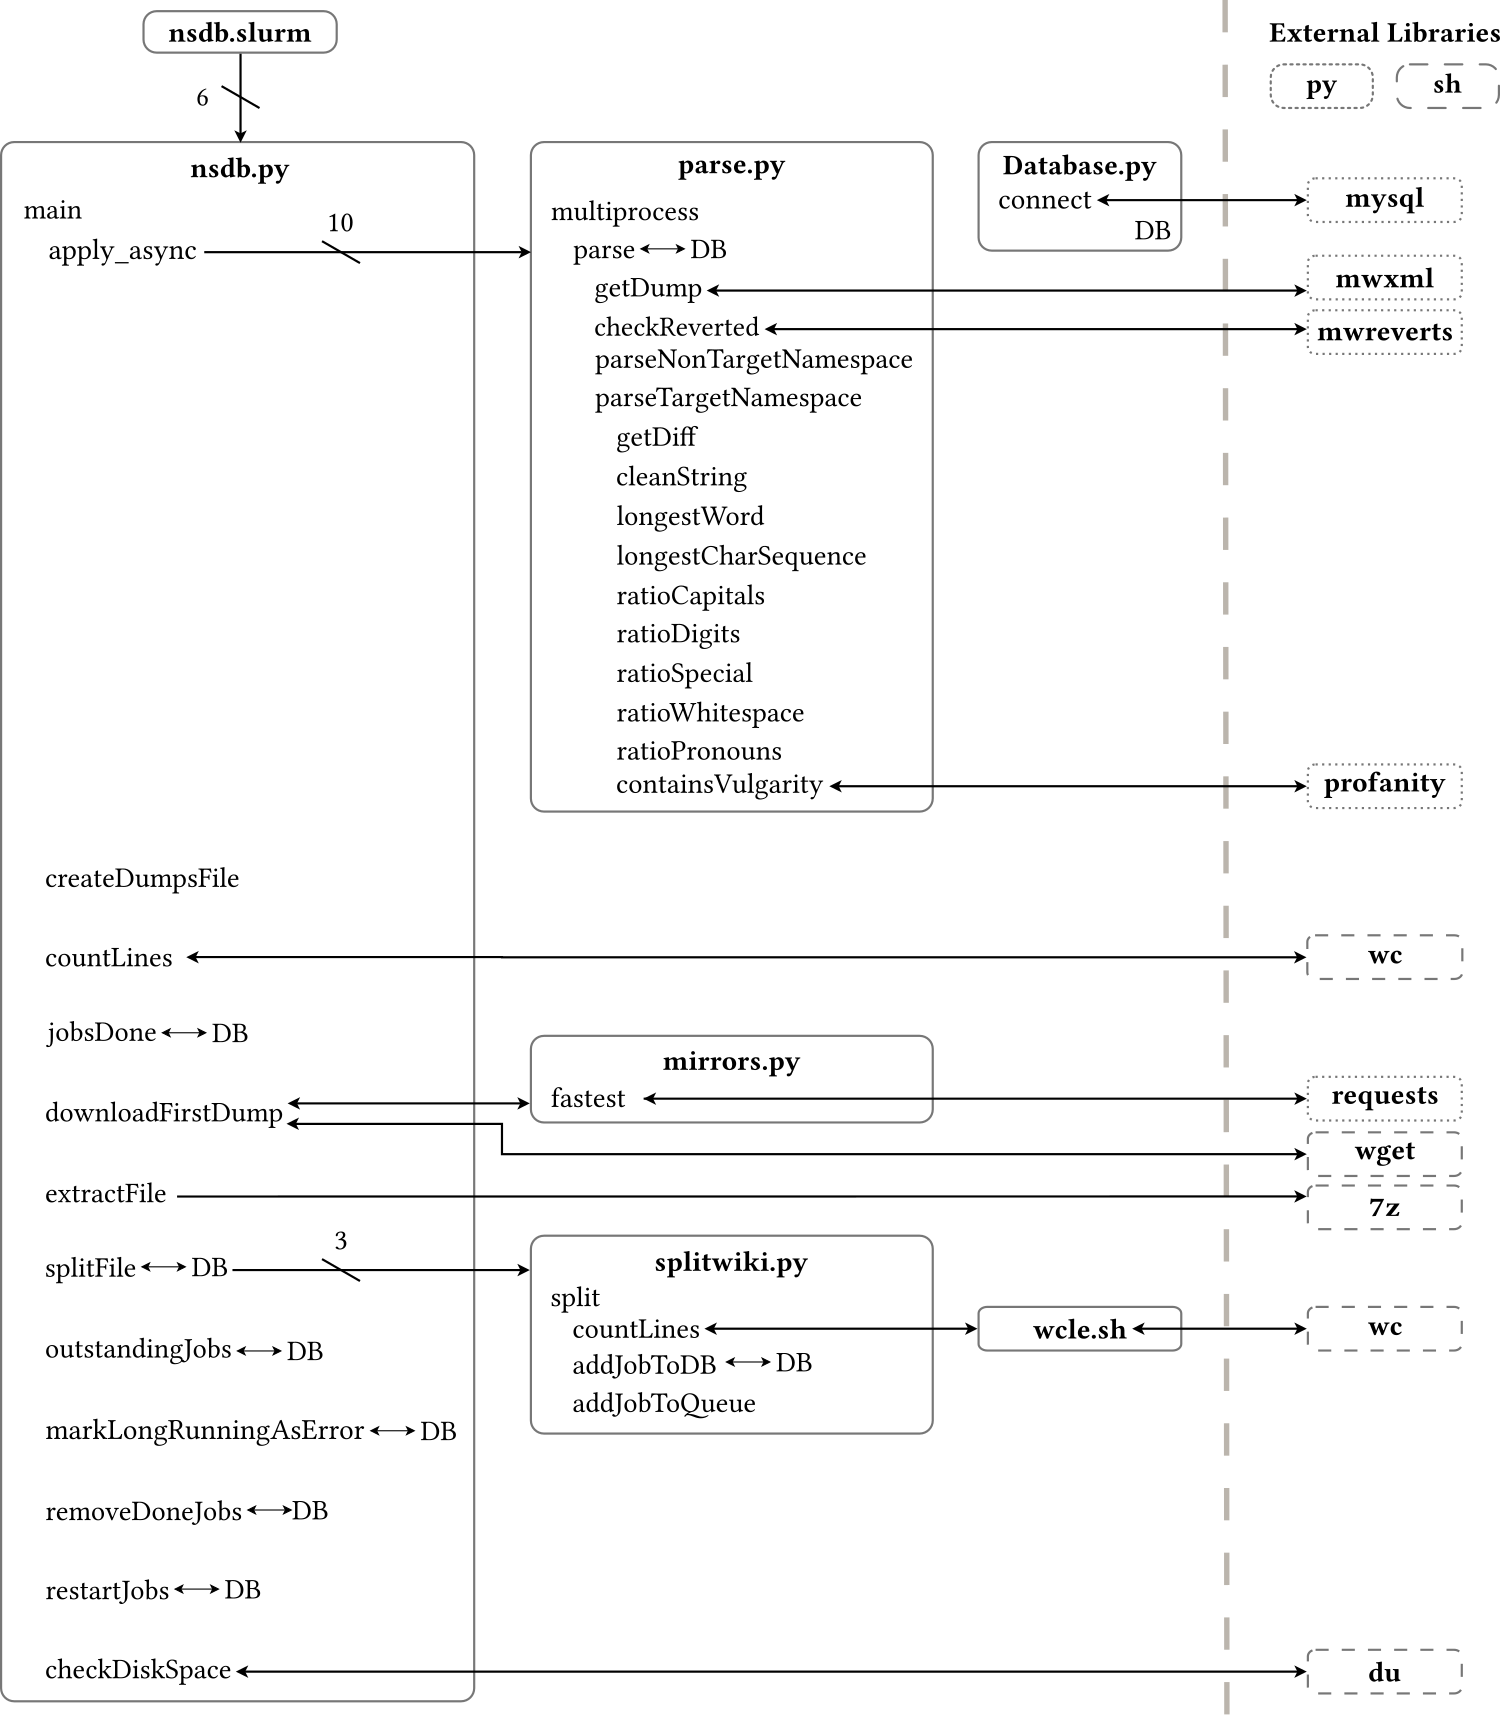
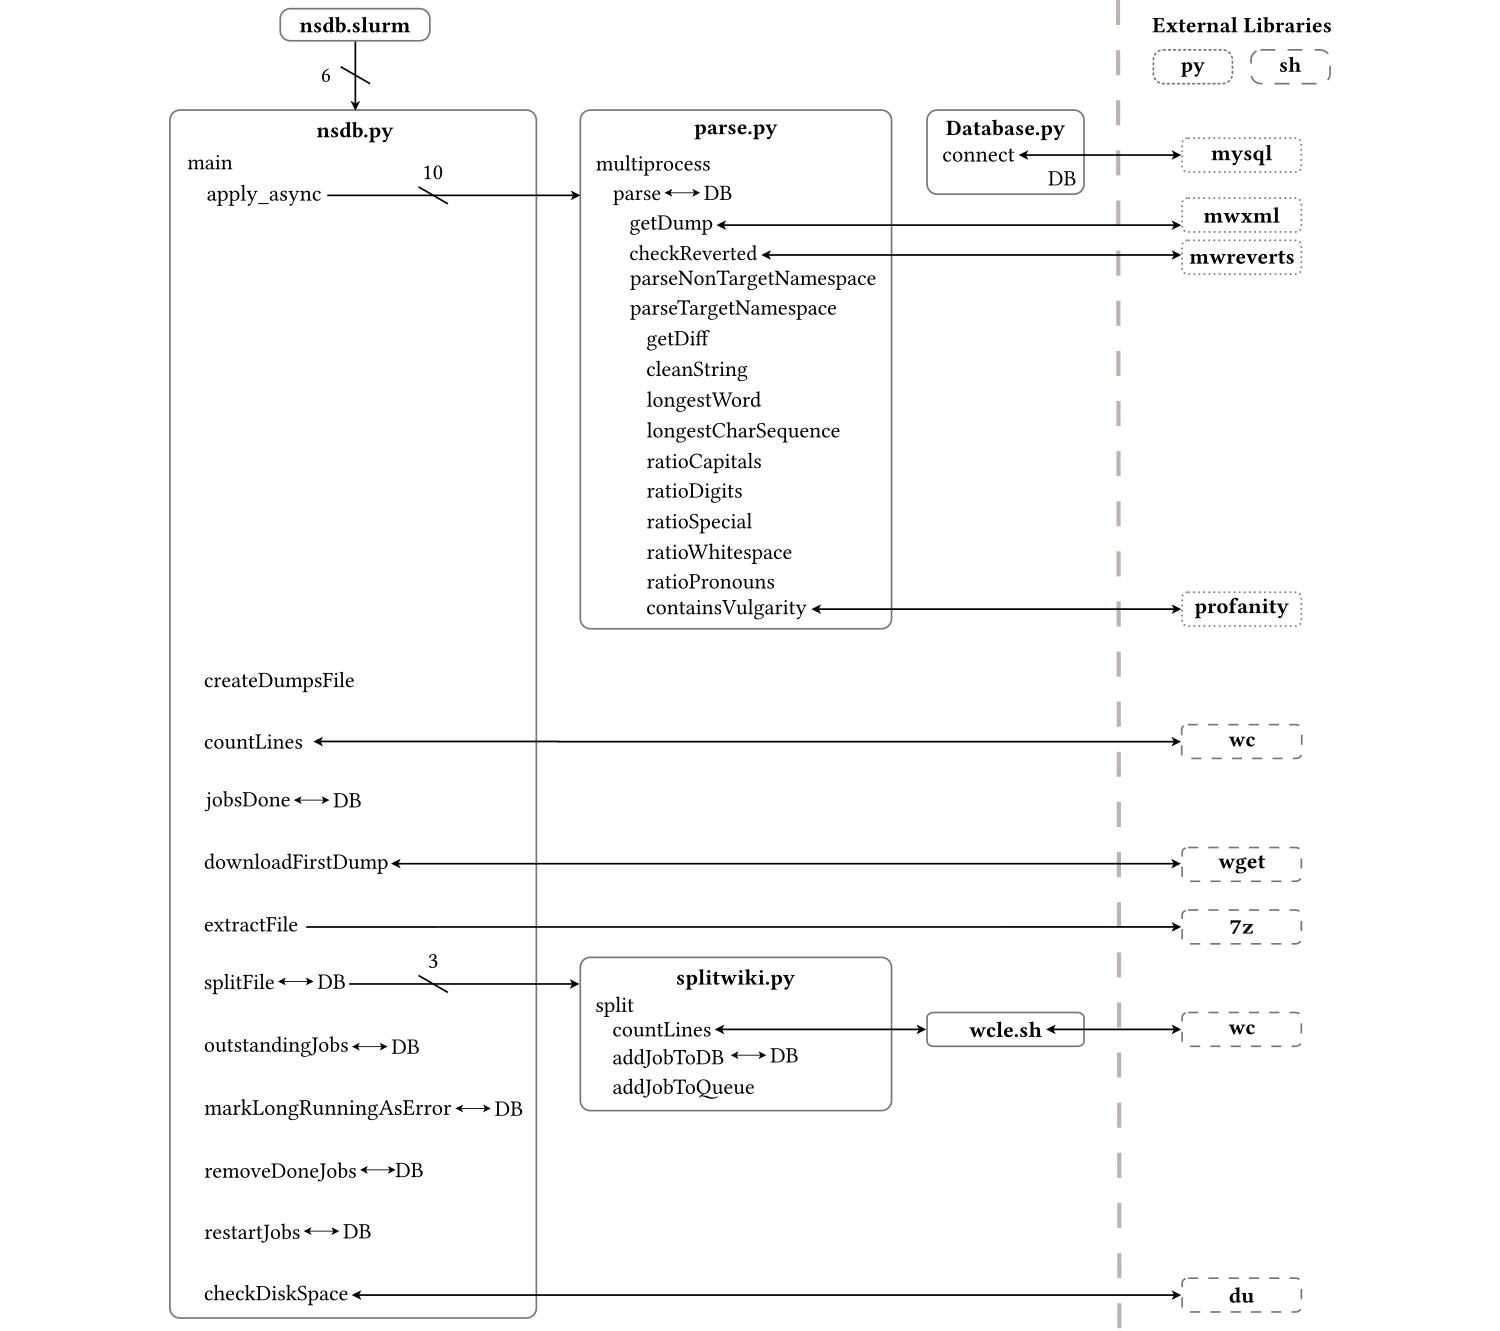
refactor mirrors.py into nsdb
remove dependancy on requests
add check for internet connection before attempting to download
dump

diff --git a/nsdb/nsdb.py b/nsdb/nsdb.py
@@ -10,20 +10,23 @@ This tool uses a MySQL database.
 Please run pip install -r requirements.txt before running this script.
 """
 
+import http.client
 import multiprocessing
 import os
 import re
 import subprocess
 import time
 import traceback
+import urllib
+import urllib.request
 from datetime import datetime
 from sys import argv
 from typing import List
-from urllib import request
+
+from tqdm import tqdm
 
 import Database
 import parse
-from mirrors import fastest
 from splitwiki import split
 
 
@@ -58,7 +61,7 @@ def createDumpsFile(listOfDumps: str, wiki: str = "enwiki", dump: str = "2020040
             pass
 
         url = mirror + wiki + "/" + dump
-        content = request.urlopen(url).read().decode("utf-8")
+        content = urllib.request.urlopen(url).read().decode("utf-8")
         dumps = re.findall('(?<=href="/).*pages-meta-history.*7z(?=")', content)
 
         with open(listOfDumps, "w") as file:
@@ -74,11 +77,90 @@ def countLines(file: str) -> int:
     return lines
 
 
+def findFastestMirror(dump: str = "20200401/", wiki: str = "enwiki/") -> str:
+    """Gets a list of the fastest mirrors, downloads a single file from each
+    and returns the fastest one.
+
+    Execution takes 5-10 seconds as a guideline
+
+    Returns
+    -------
+    fastestMirror: str - the url of the fastest mirror
+    """
+
+    # find a list of mirrors
+    url = "https://dumps.wikimedia.org/mirrors.html"
+
+    html = urllib.request.urlopen(url).read().decode("utf-8")
+
+    # https is always going to be slower than http for download but check in case mirror
+    # is only available over https
+    mirrors = re.findall('href="(https?:.*)"', html)
+    mirrorDownloadTime = []
+
+    # Add main site
+    mirrors.append("https://dumps.wikimedia.org/")
+
+    firstfile = "enwiki-20200401-pages-meta-history5.xml-p564843p565313.7z"
+    print("Finding fastest mirror")
+    for index, mirror in enumerate(tqdm(mirrors, unit=" mirror")):
+        url = mirror + wiki + dump + firstfile
+
+        tick = time.time()
+        try:
+            urllib.request.urlopen(url)
+
+            # add the time to download
+            mirrorDownloadTime.append(time.time() - tick)
+        except urllib.error.HTTPError as err:
+            if str(err.code)[0] in ["4", "5"]:
+                # try other url scheme
+                url = mirror + "dumps/" + wiki + dump + firstfile
+
+                tick = time.time()
+                try:
+                    urllib.request.urlopen(url)
+
+                    mirrorDownloadTime.append(time.time() - tick)
+                except urllib.error.HTTPError as err:
+                    if str(err.code)[0] in ["4", "5"]:
+                        mirrorDownloadTime.append(1000)
+                    else:
+                        raise
+            else:
+                raise
+
+    # return fastest mirror
+    _, index = min((val, index) for (index, val) in enumerate(mirrorDownloadTime))
+
+    # for i in range(len(mirrors)):
+    #     print(mirrors[i], mirrorDownloadTime[i])
+    # print("Fastest mirror is " + mirrors[index])
+    if all(time == 1000 for time in mirrorDownloadTime):
+        raise RuntimeError("Dump " + dump + " is no longer hosted on any mirror")
+
+    return mirrors[index]
+
+
 def downloadFirstDump(
     dump: str, listOfDumps: str, archivesDir: str, dumpsDir: str
 ) -> str:
     """Downloads the first dump in dumps.txt if it is not already present
     in the dumps directory"""
+    # check internet connectivity
+    # source https://stackoverflow.com/a/29854274
+    conn = http.client.HTTPConnection("www.fast.com", timeout=5)
+    for _ in range(5):
+        try:
+            conn.request("HEAD", "/")
+        except:
+            conn.close()
+        else:
+            conn.close()
+            break
+    else:
+        print("Internet connection lost")
+        return ""
 
     with open(listOfDumps) as file:
         firstLine = file.readline().strip()
@@ -92,7 +174,7 @@ def downloadFirstDump(
         file.writelines(data)
 
     if not os.path.exists(dumpsDir + fileName[:-3]):
-        fastestMirror = fastest(dump)
+        fastestMirror = findFastestMirror(dump)
 
         subprocess.run(
             ["wget", "-nc", "-nv", "-P", archivesDir, fastestMirror + firstLine]
@@ -341,17 +423,19 @@ def main(
                 % (fileName, time.time() - tick)
             )
 
-            tick = time.time()
-            fileName = extractFile(fileName, archivesDir, dumpsDir)
-            print(
-                "--- Extracting %s took %s seconds ---" % (fileName, time.time() - tick)
-            )
+            if fileName != "":
+                tick = time.time()
+                fileName = extractFile(fileName, archivesDir, dumpsDir)
+                print(
+                    "--- Extracting %s took %s seconds ---"
+                    % (fileName, time.time() - tick)
+                )
 
-            splitter.apply_async(
-                splitFile,
-                (fileName, queue, dumpsDir, partitionsDir, numPartitions),
-                error_callback=splitError,
-            )
+                splitter.apply_async(
+                    splitFile,
+                    (fileName, queue, dumpsDir, partitionsDir, numPartitions),
+                    error_callback=splitError,
+                )
 
         numJobs = outstandingJobs()
         diskSpace = checkDiskSpace(dataDir)

diff --git a/DOCUMENTATION.md b/DOCUMENTATION.md
@@ -41,6 +41,17 @@ Functions
     Execution takes 5-15 minutes as a guideline
 
     
+`findFastestMirror(dump='20200401/', wiki='enwiki/')`
+:   Gets a list of the fastest mirrors, downloads a single file from each
+    and returns the fastest one.
+    
+    Execution takes 5-10 seconds as a guideline
+    
+    Returns
+    -------
+    fastestMirror: str - the url of the fastest mirror
+
+    
 `jobsDone()`
 :   Returns True if all jobs are done
 
@@ -262,27 +273,6 @@ Functions
      50 partitions - 5002 seconds - 39.2 GB
      10 partitions - 4826 seconds - 37.2 GB
       5 partitions - 3820 seconds - 36   GB
-
------
-
-
-Module [mirrors](nsdb/mirrors.py)
-==============
-This script finds the fastest mirror to download Wikipedia dumps from
-
-Functions
----------
-
-    
-`fastest(dump='20200401/', wiki='enwiki/')`
-:   Gets a list of the fastest mirrors, downloads a single file from each
-    and returns the fastest one.
-    
-    Execution takes 5-10 seconds as a guideline
-    
-    Returns
-    -------
-    fastestMirror: str - the url of the fastest mirror
 
 -----
 
